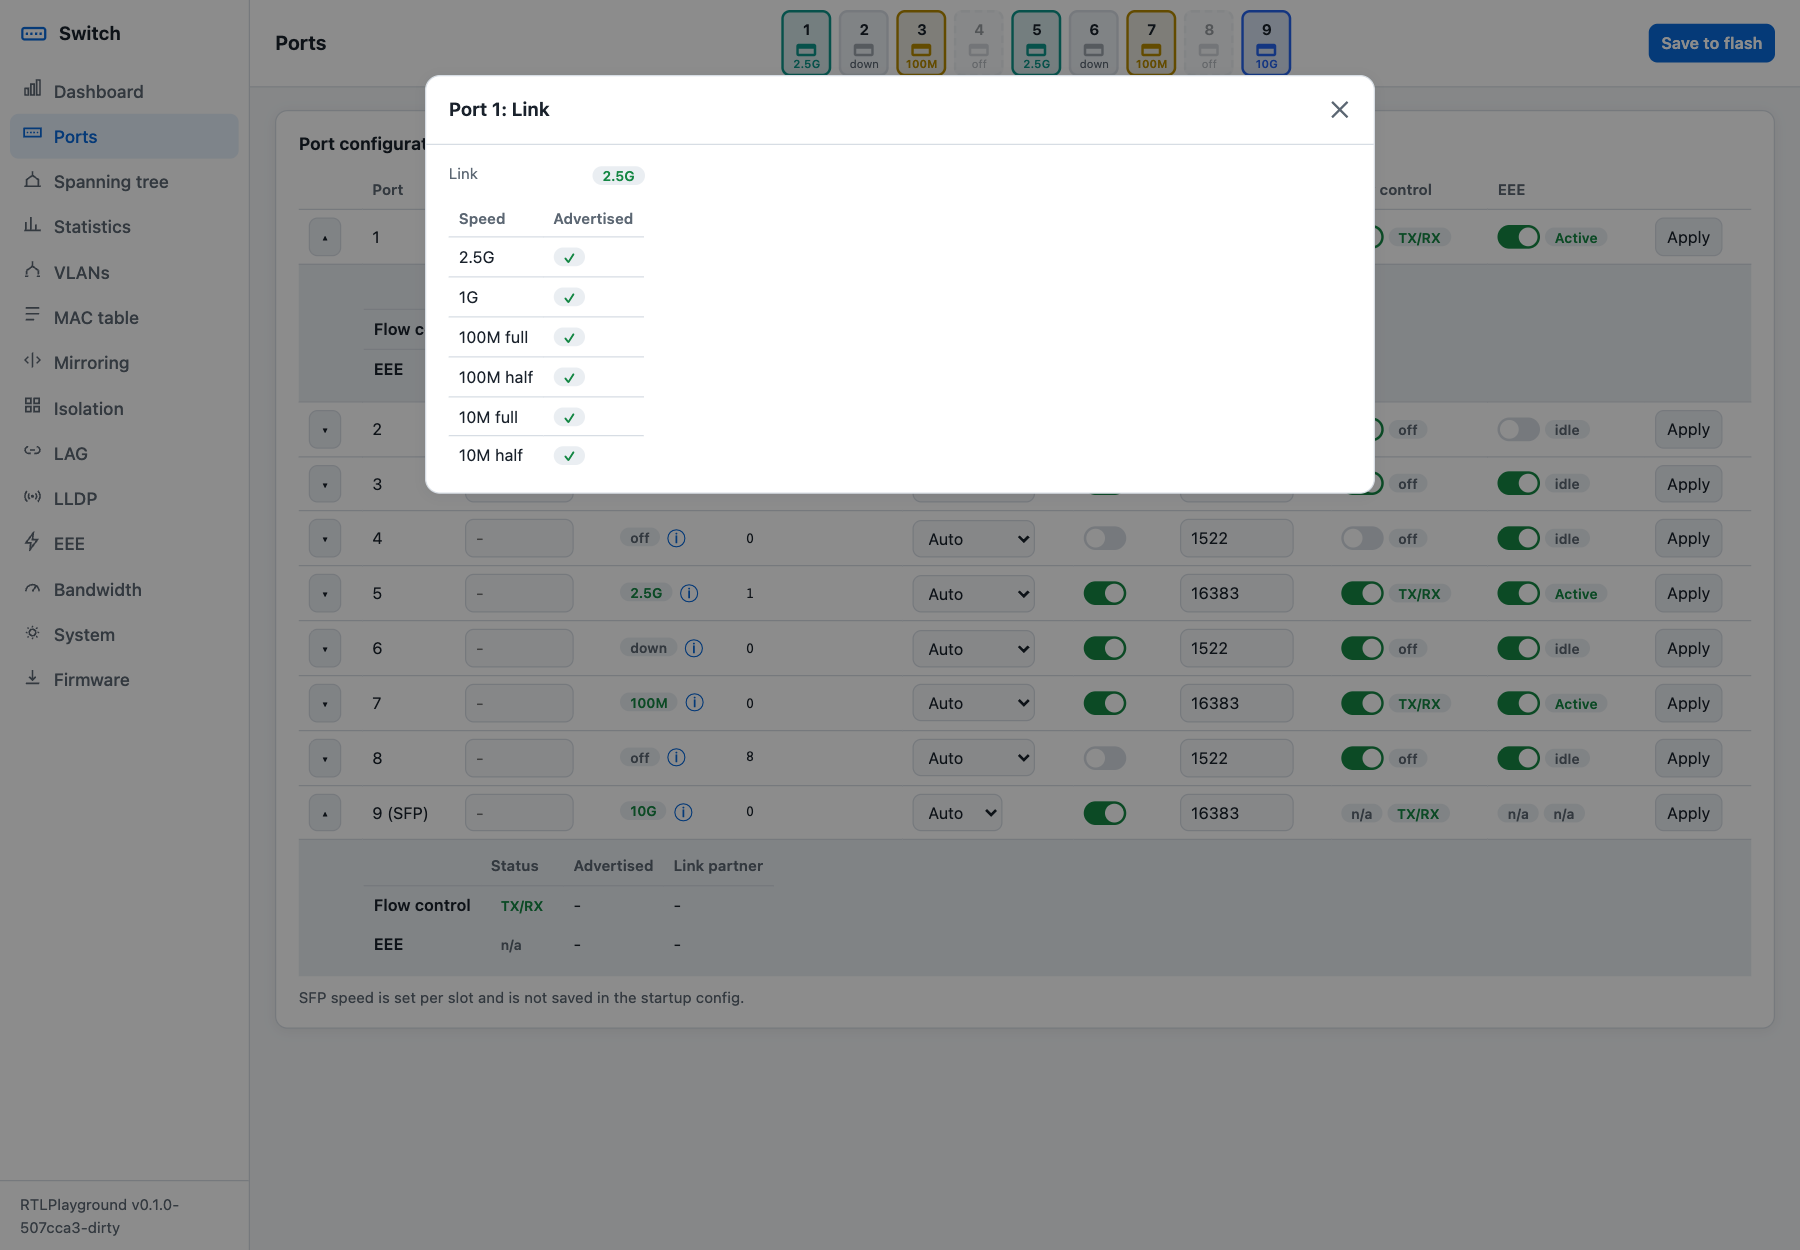
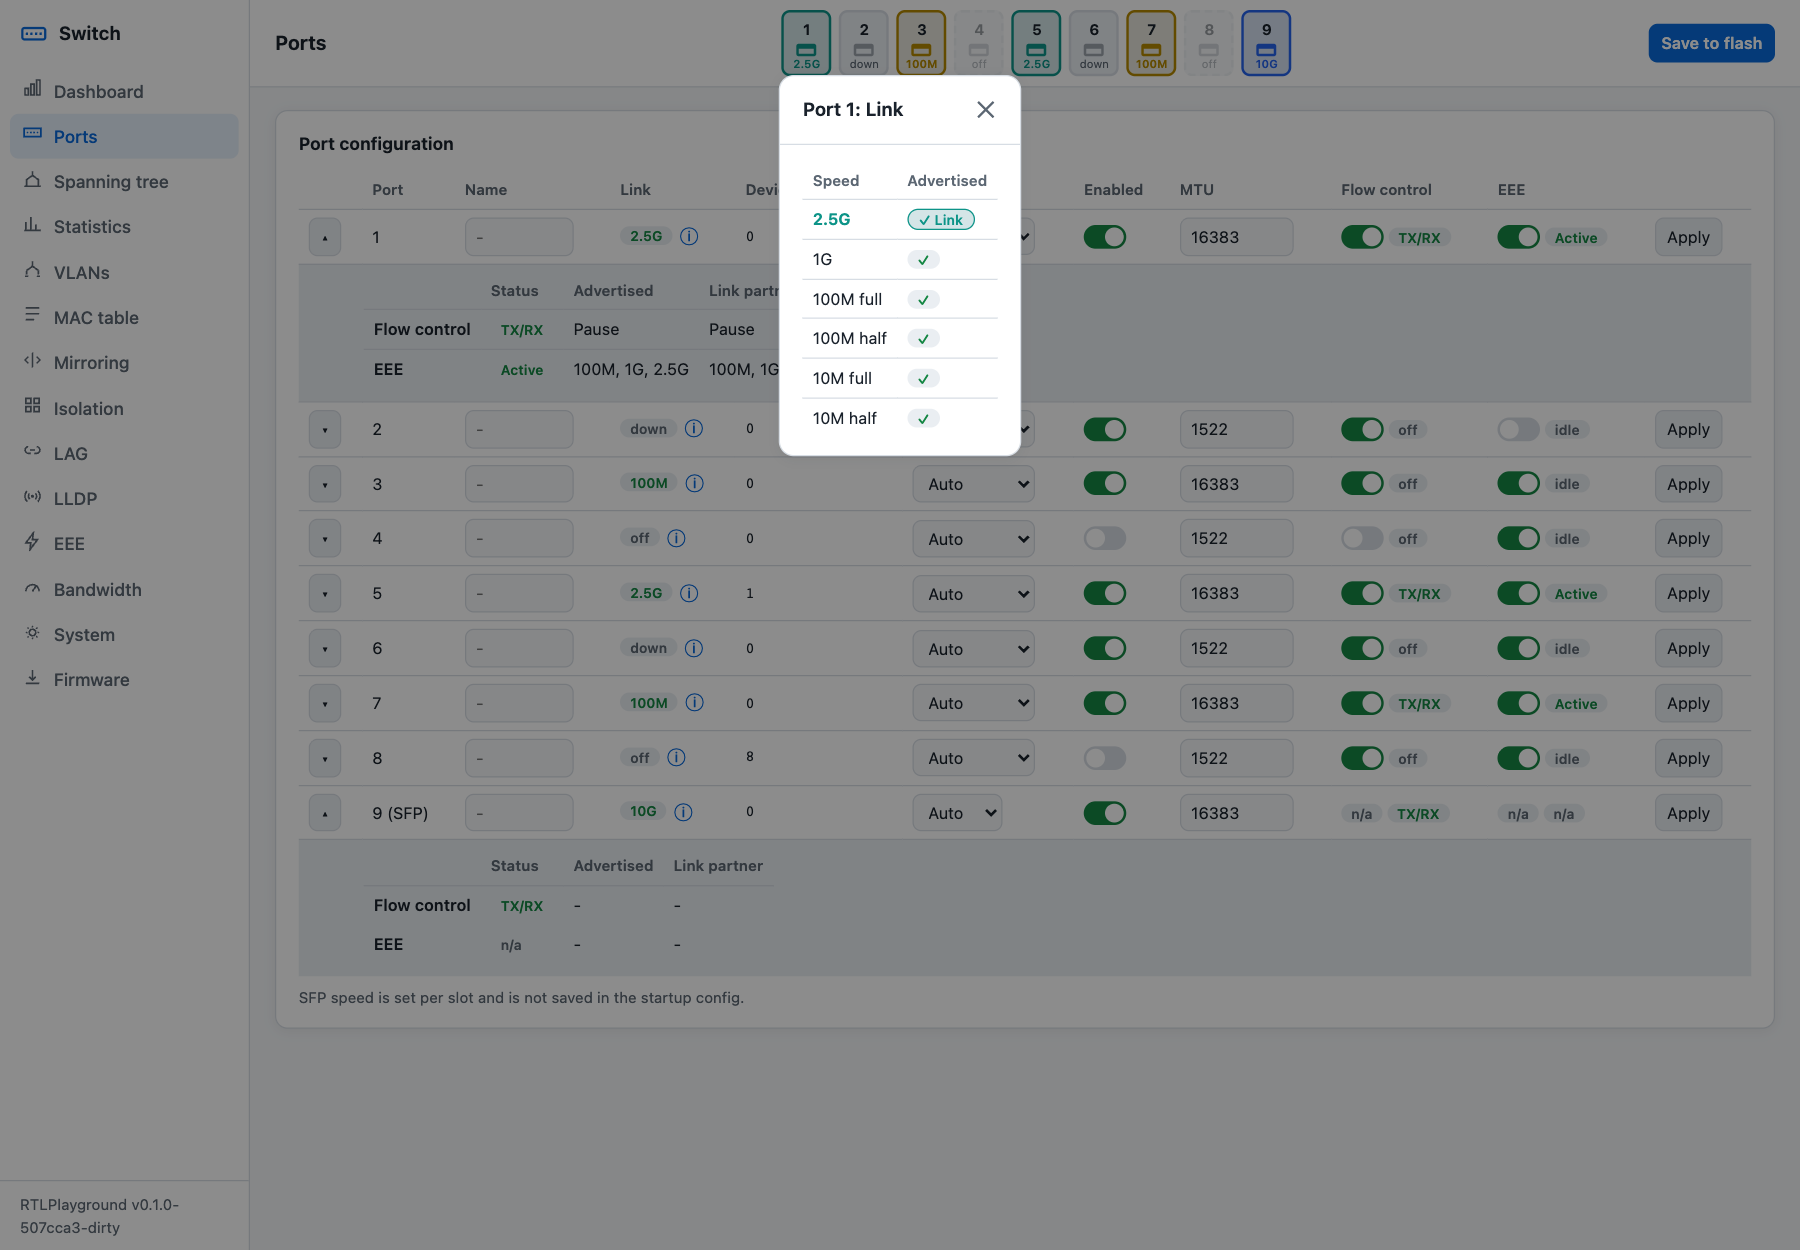
Mock-up: narrow link pop-up with the linked speed highlighted, add Advanced-expands-row variant H

Changed region(s): [[0.2178, 0.0624, 0.7778, 0.4056], [0.4667, 0.2184, 0.4978, 0.2808]]

diff --git a/html/mockup.js b/html/mockup.js
@@ -271,27 +271,62 @@ VARIANTS.N=function(){
 };
 // Link speed details: separate from flow control/EEE, behind an info button next to the link badge
 var LINKINFO=false;
+// shortcut: status.json has no duplex, so a 10M/100M link is shown as full duplex; real code needs the duplex bit
+function linkRow(p){
+  return{1:p.adv&&(parseInt(p.adv,2)&2)?1:0,2:p.adv&&(parseInt(p.adv,2)&8)?3:2,3:4,6:5}[p.link];
+}
 function linkTable(p){
-  var d=h("div");
+  var d=h("div"),up=p.enabled&&p.link>0,pc="var("+(LINKC[p.link]||"--s1000")+")";
+  if(p.isSFP){
+    d.appendChild(h("p",{class:"small mut",style:"max-width:16em",text:"SFP ports do not advertise speeds."}));
+    return d;
+  }
   var b=parseInt(p.adv||"0",2),n=["10M "+t("c_half"),"10M "+t("c_full"),"100M "+t("c_half"),"100M "+t("c_full"),"1G","2.5G"];
-  var top=h("div",{style:"display:grid;grid-template-columns:7.5em 1fr;gap:6px 10px;margin-bottom:10px"},[
-    h("span",{class:"mut small",text:t("c_link")}),h("span",{html:linkBadge(p)})]);
-  d.appendChild(top);
-  if(p.isSFP){d.appendChild(h("p",{class:"small mut",text:"SFP ports do not advertise speeds."}));return d}
   var tb=h("table",{class:"t",style:"width:auto"}),r=tb.createTHead().insertRow();
   [t("pt_speed"),t("e_adv")].forEach(function(s){r.appendChild(h("th",{text:s}))});
-  var bd=tb.createTBody();
-  for(var i=n.length-1;i>=0;i--){var tr=bd.insertRow();tr.insertCell().textContent=n[i];tr.insertCell().innerHTML=(b&(1<<i))?badge("\u2713","ok"):'<span class="mut">-</span>'}
+  var bd=tb.createTBody(),cur=up?linkRow(p):-1;
+  for(var i=n.length-1;i>=0;i--){
+    var tr=bd.insertRow(),c0=tr.insertCell(),c1=tr.insertCell();
+    c0.textContent=n[i];
+    if(i===cur){
+      // same look as the port strip tile for this link speed
+      c0.style.cssText="font-weight:650;color:"+pc;
+      c1.innerHTML='<span class="badge" title="Current link" style="color:'+pc+';border:1px solid '+pc+';background:color-mix(in srgb,'+pc+' 10%,var(--panel2))">\u2713 '+esc(t("c_link"))+'</span>';
+    }else c1.innerHTML=(b&(1<<i))?badge("\u2713","ok"):'<span class="mut">-</span>';
+  }
   d.appendChild(tb);
   return d;
 }
+var _modal=modal;
+modal=function(a,b,c){$("modal").style.width="";_modal(a,b,c)};
+function linkModal(p){modal(t("c_port")+" "+p.portNum+": "+t("c_link"),linkTable(p));$("modal").style.width="fit-content"}
 function infoBtn(p){
   return h("button",{title:"Link details",style:"background:none;border:0;padding:0 0 0 6px;cursor:pointer;color:var(--ac);font-size:15px;vertical-align:middle",text:"\u24d8",
-    onclick:function(){modal(t("c_port")+" "+p.portNum+": "+t("c_link"),linkTable(p))}});
+    onclick:function(){linkModal(p)}});
 }
-["F","G","M","N"].forEach(function(v){var f=VARIANTS[v];VARIANTS[v]=function(){LINKINFO=true;f()}});
-VARIANTS.FL=function(){VARIANTS.F();modal(t("c_port")+" 1: "+t("c_link"),linkTable(S.ports[0]))};
-VARIANTS.ML=function(){VARIANTS.M();modal(t("c_port")+" 1: "+t("c_link"),linkTable(S.ports[0]))};
+// H: Advanced button (as in G), but it expands the row instead of opening a modal
+VARIANTS.H=function(){
+  setHead(BASE.map(function(s){return[s]}).concat([[""],[""]]));
+  S.ports.forEach(function(p,idx){
+    var tb=$("ptable").tBodies[0],open=idx===0||idx===S.ports.length-1;
+    var tr=baseRow(tb,p,{before:function(tr){tr.insertCell().appendChild(toggleBtn(open,"Advanced"))}});
+    if(!open)return;
+    var dc=tb.insertRow().insertCell();dc.colSpan=tr.cells.length;dc.style.cssText="background:var(--panel2);padding:6px 8px 10px 52px";
+    dc.appendChild(detailsTable(p,true));
+  });
+};
+// HM: phone version of H: the Advanced button expands the card
+VARIANTS.HM=function(){
+  cardList(function(p,i){
+    var open=i===0,more=h("div",{style:"border-top:1px solid var(--bd);padding-top:8px;margin-top:8px"},[toggleBtn(open,"Advanced")]);
+    if(open)more.appendChild(h("div",{style:"background:var(--panel2);border-radius:6px;padding:0 10px;margin-top:6px"},[detailsList(p,true)]));
+    return[more];
+  });
+};
+["F","G","H","M","N","HM"].forEach(function(v){var f=VARIANTS[v];VARIANTS[v]=function(){LINKINFO=true;f()}});
+VARIANTS.FL=function(){VARIANTS.F();linkModal(S.ports[0])};
+VARIANTS.ML=function(){VARIANTS.M();linkModal(S.ports[0])};
+VARIANTS.FL3=function(){VARIANTS.F();linkModal(S.ports[2])};
 function fcFlags(b){return["Pause","Asym"].filter(function(s,i){return b&(1<<i)}).join(", ")||"-"}
 function mockStatus(){
   fakeData();updateStrip();
